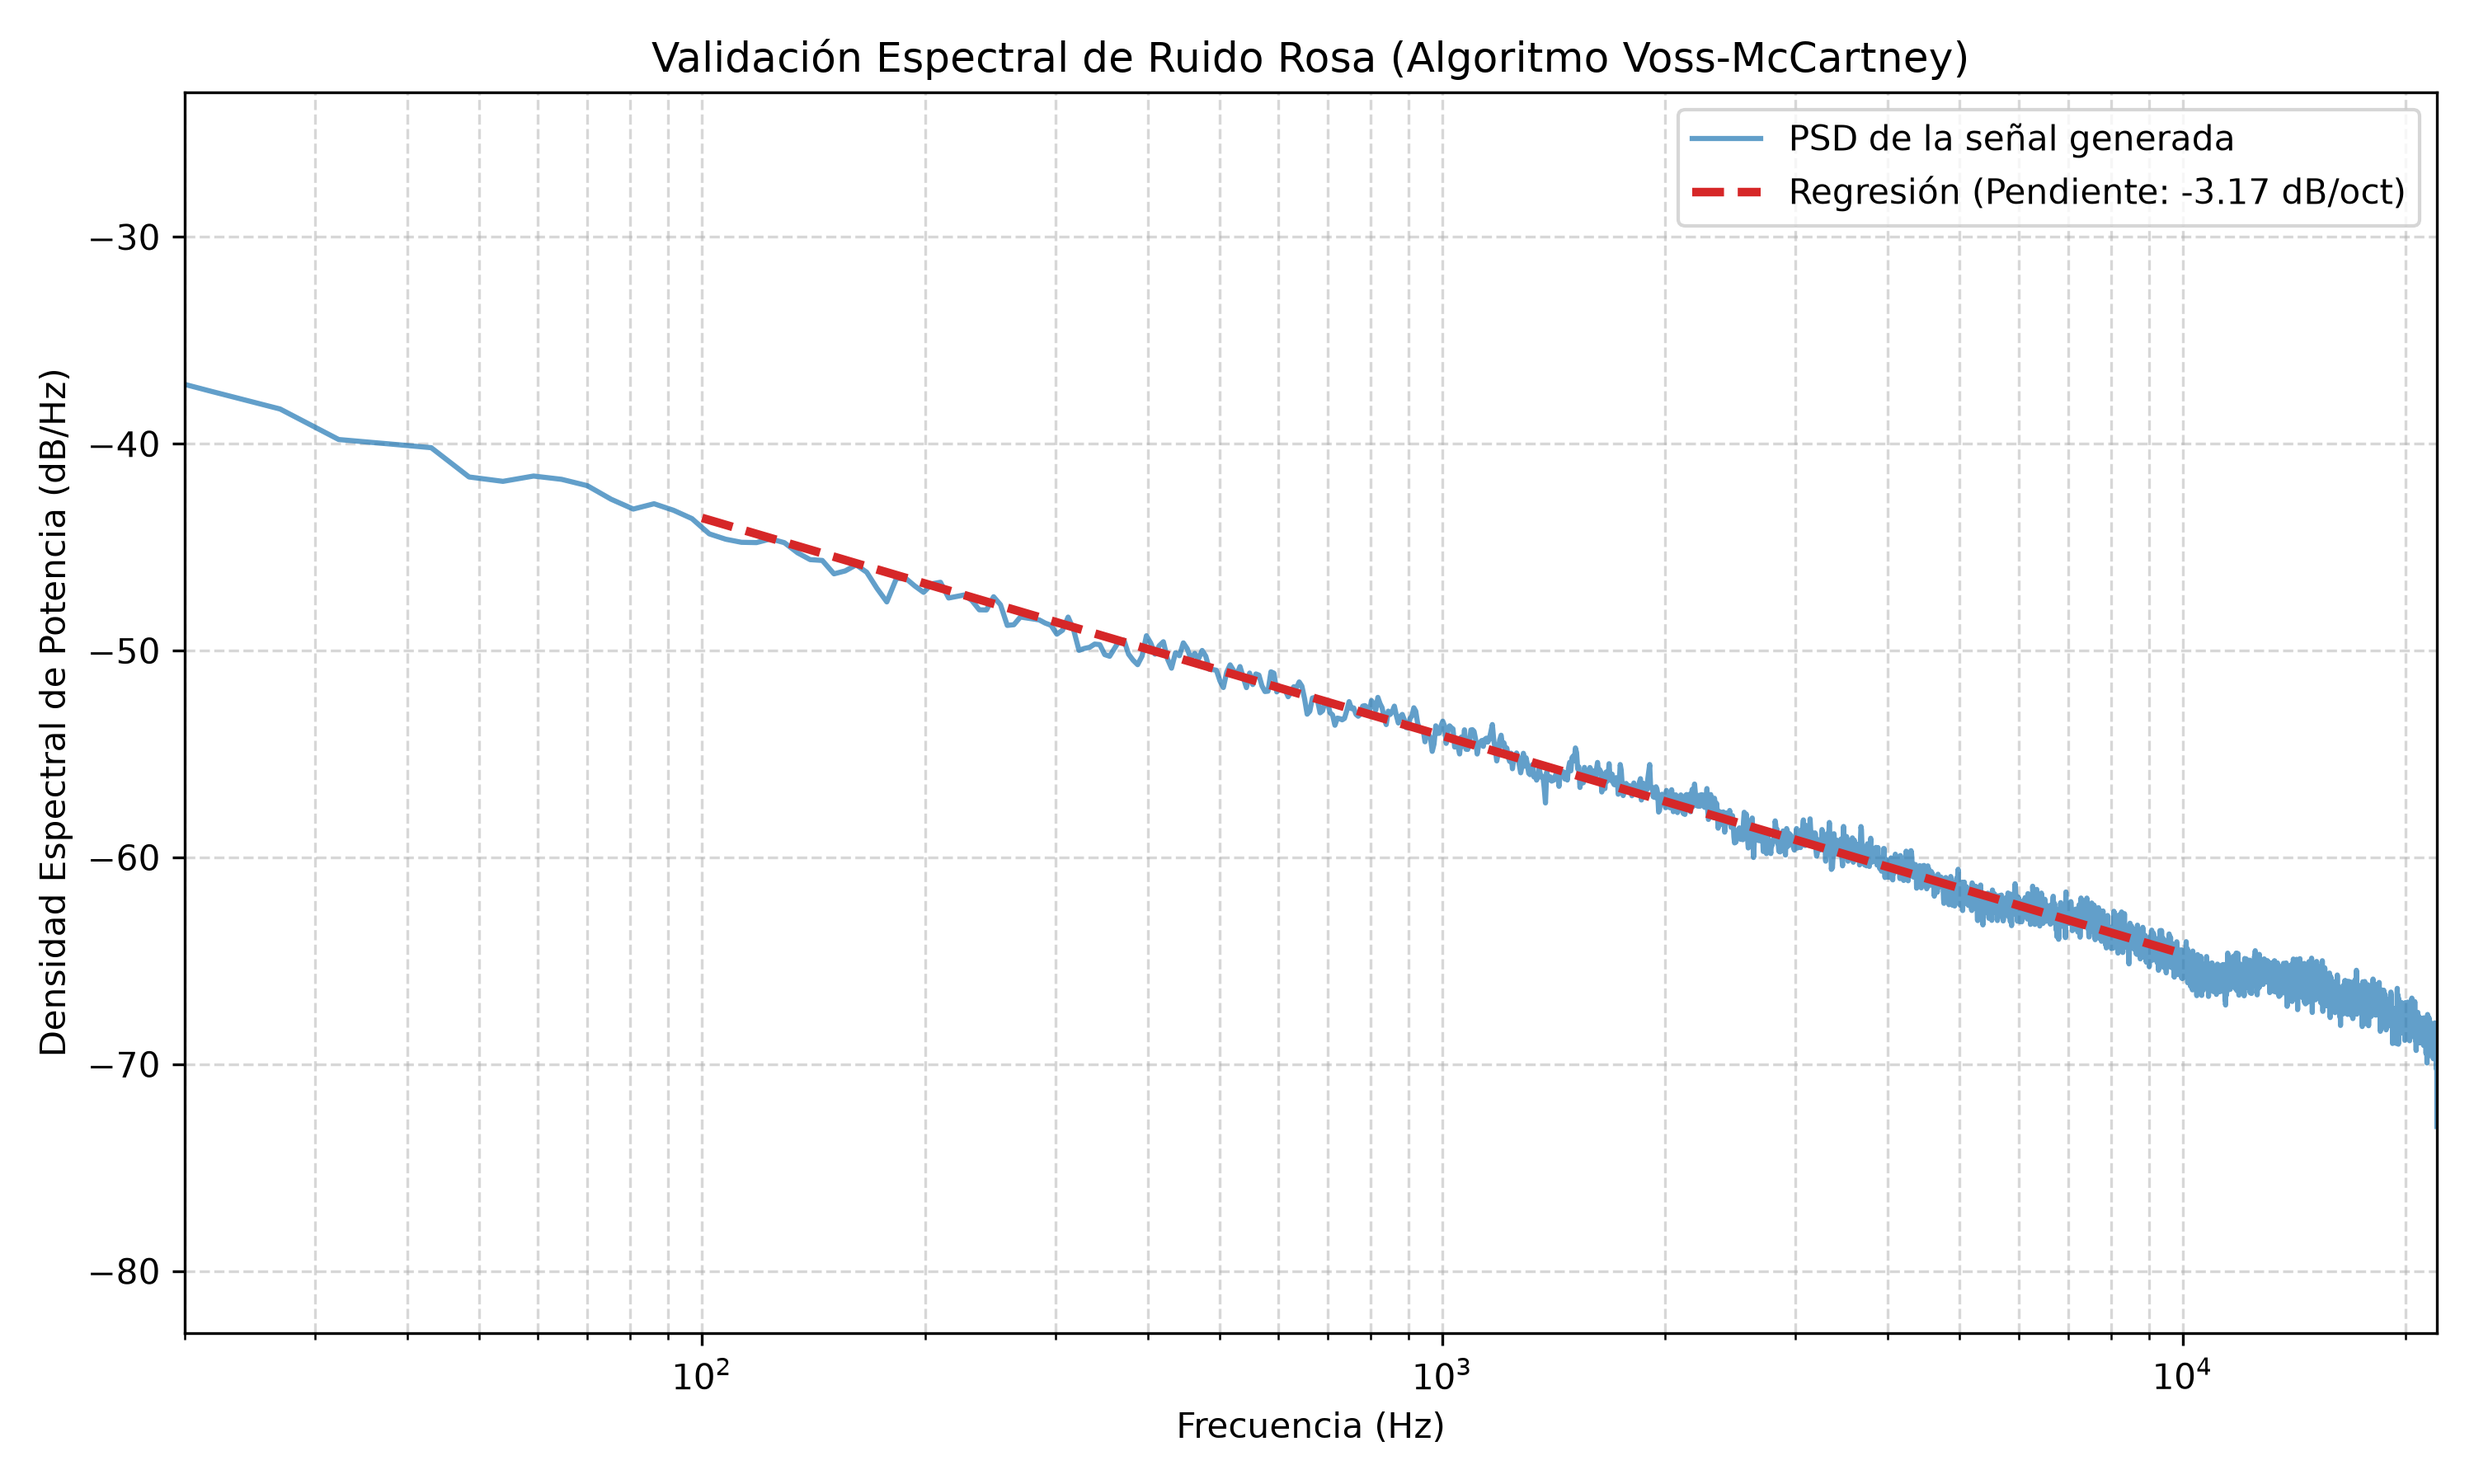
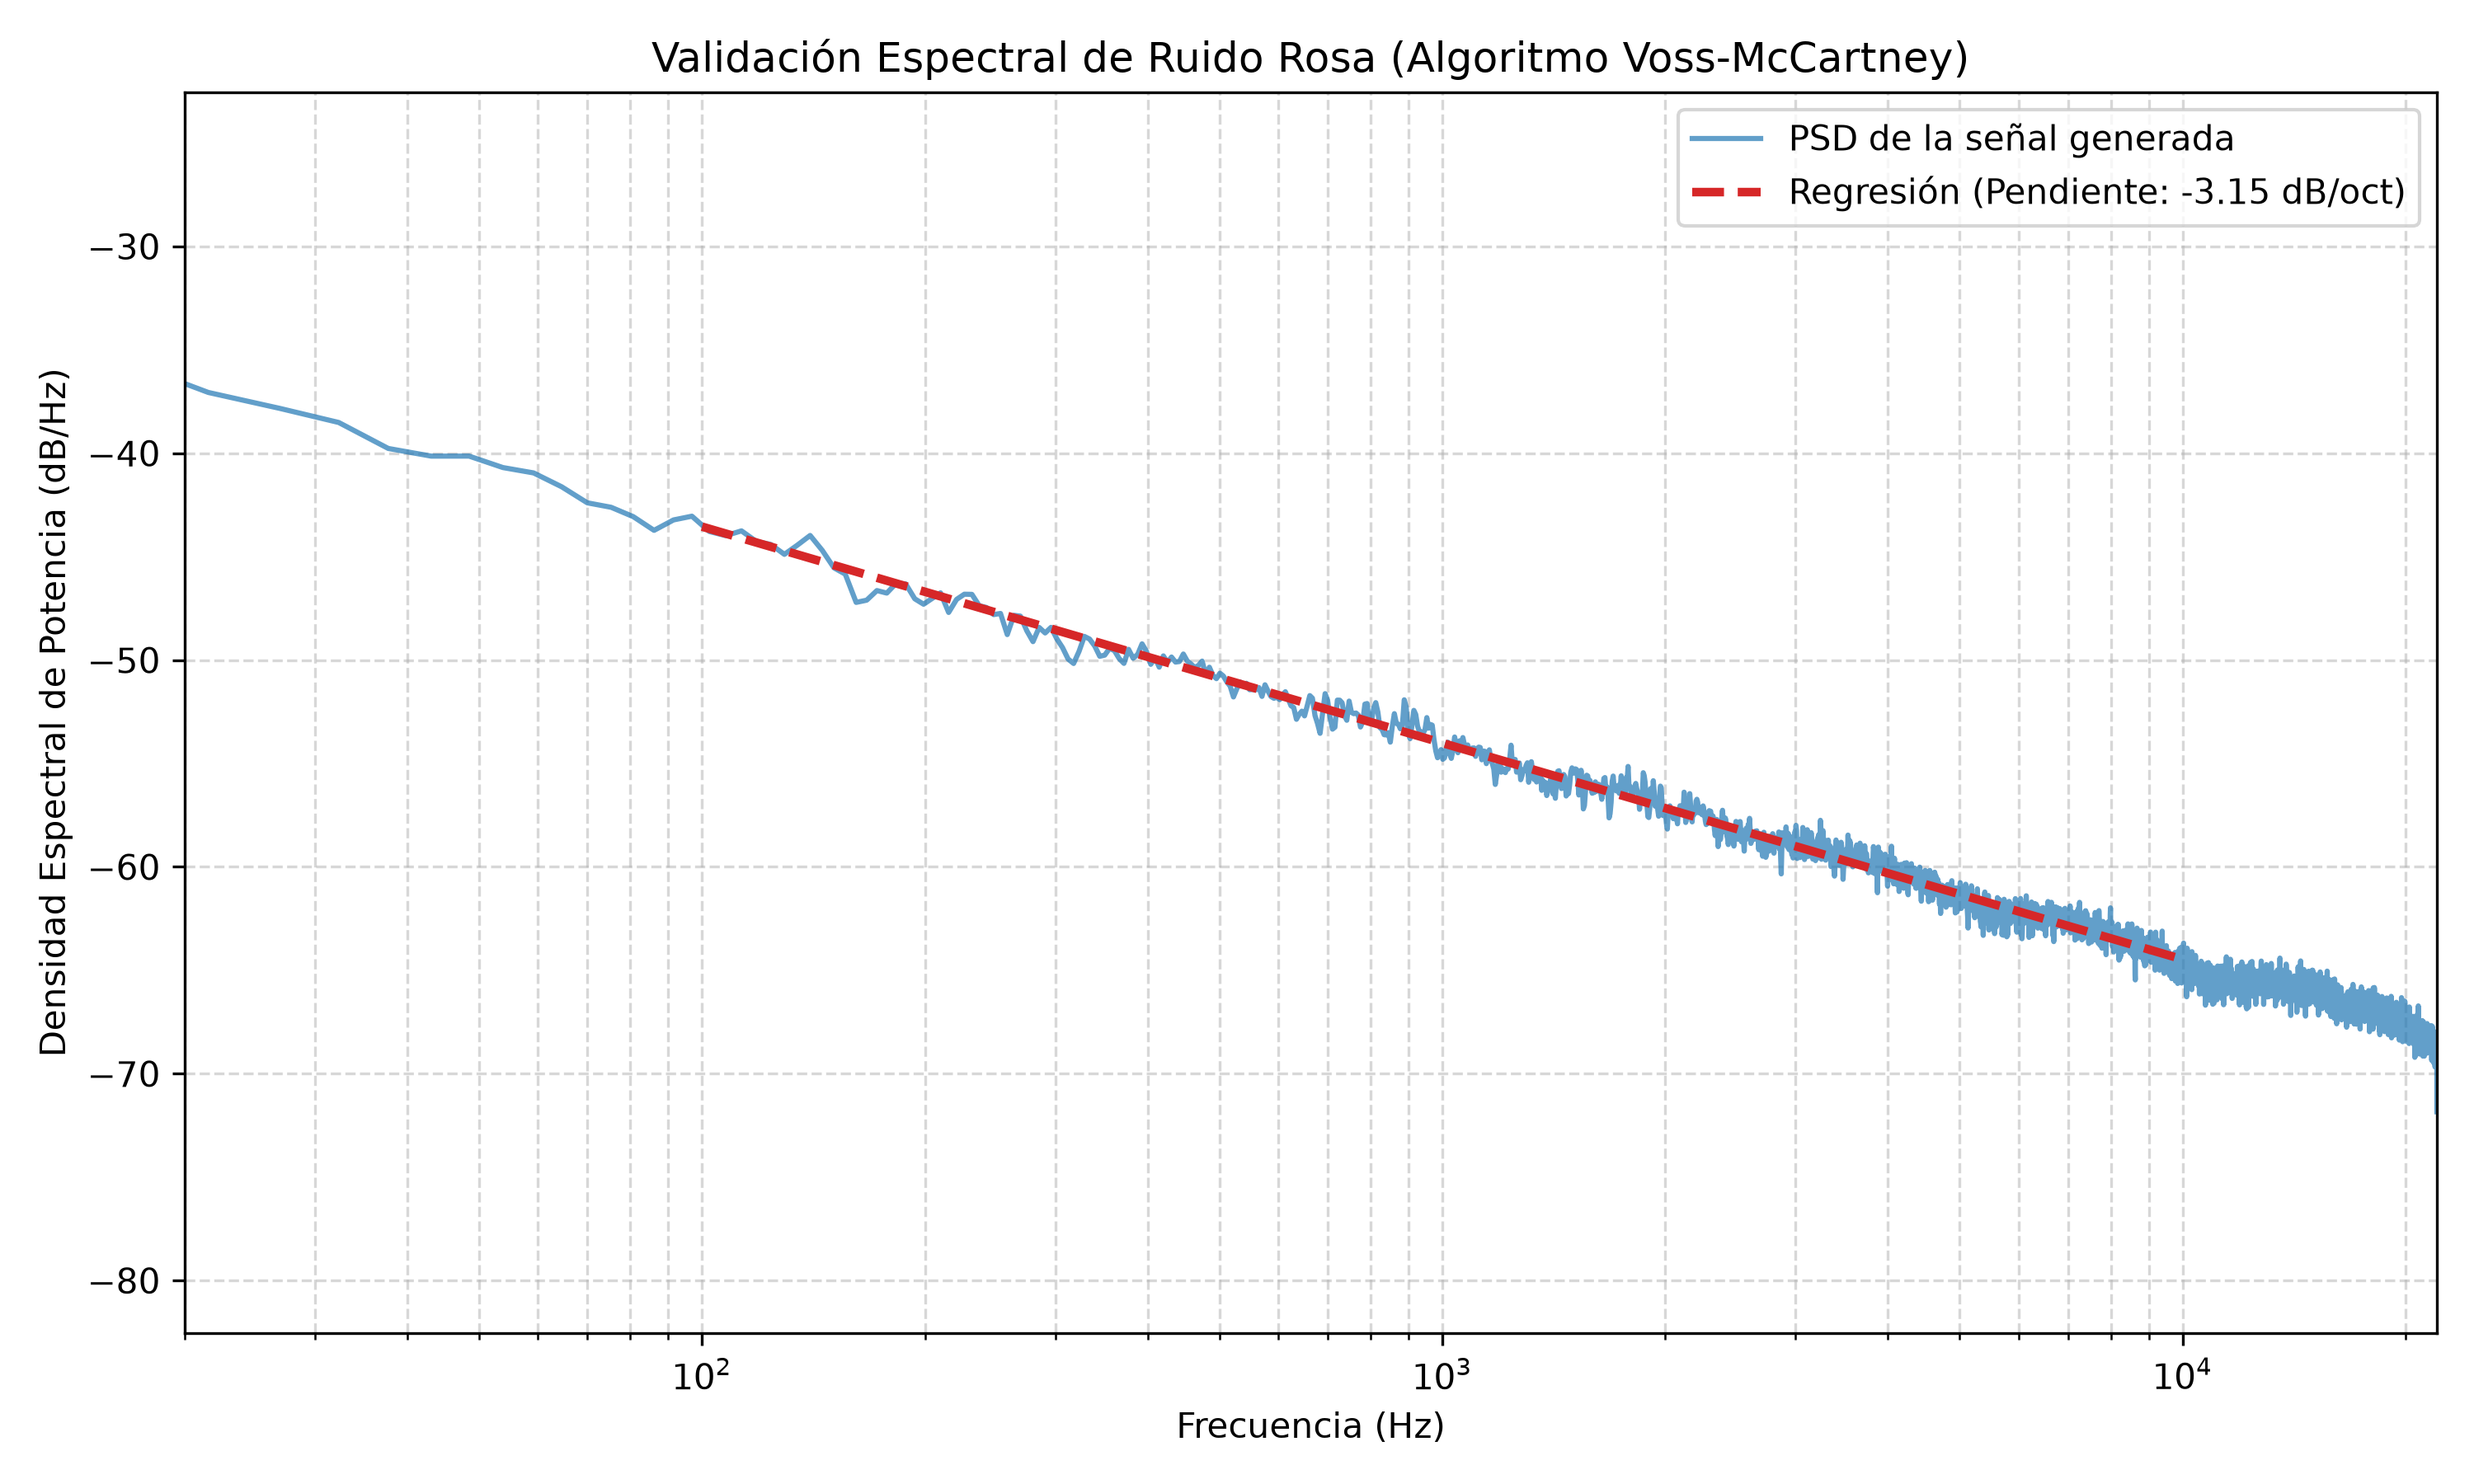
docs: actualizacion de validacion play_and_record y documentacion de IR reales

diff --git a/README.md b/README.md
@@ -337,7 +337,7 @@ o con un archivo `.env` en la raiz (ignorado por git).
 ---
 
 ### Evidencias visuales (`docs/m2/`)
-
+Se utilizaron dos archivos de respuestas al impulso reales extraidos de la pagina MIT IR Survey (https://mcdermottlab.mit.edu/Reverb/IR_Survey.html)
 #### 1. Deconvolución de RI Sintética
 Superposición temporal entre la RI sintética original y la recuperada tras convolución con *sine sweep* y filtrado inverso (alineación compensada por correlación cruzada):
 
